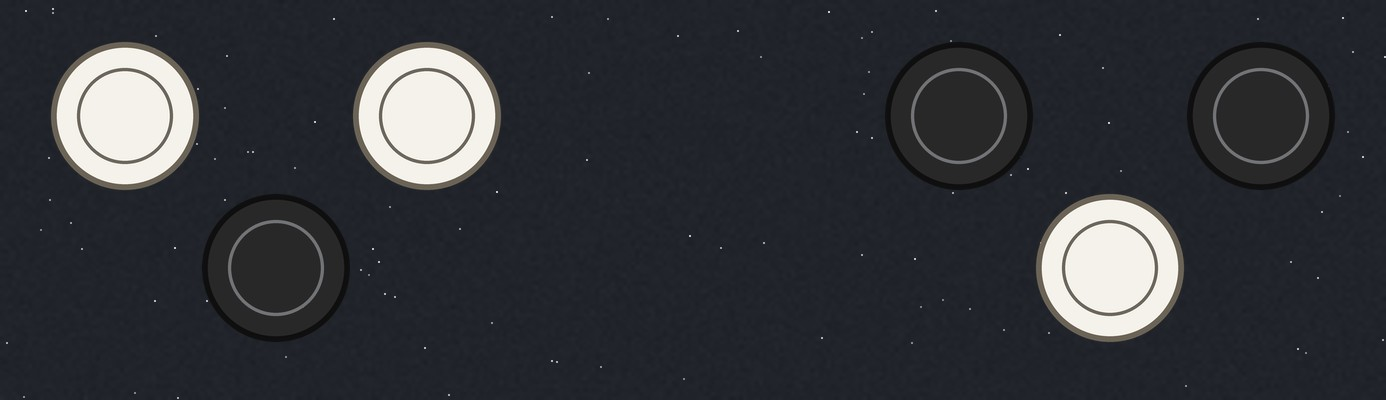
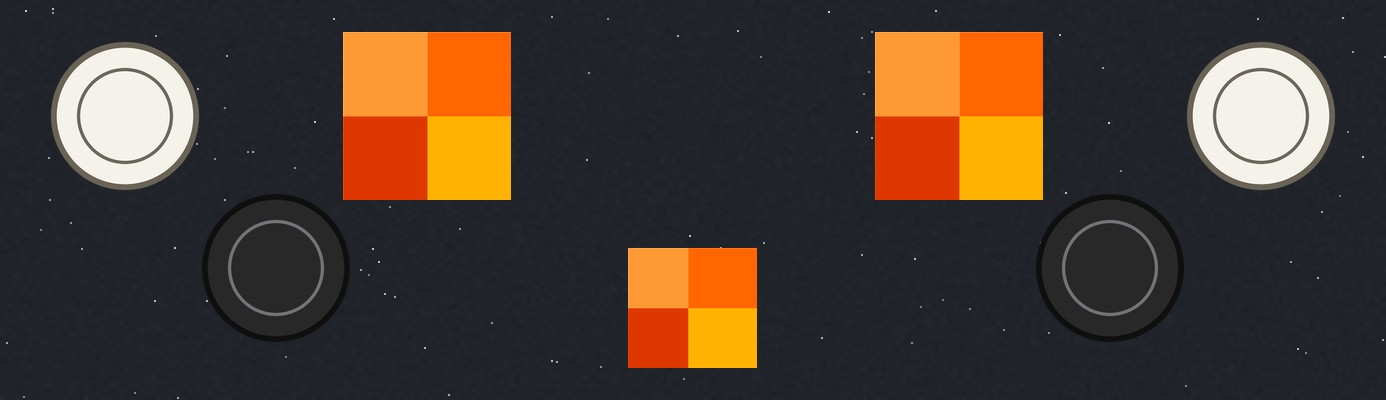
feat(vaultnestorgames): integrate official 4c board art, real physical display photos, and update licence to granted

diff --git a/games/vaultnestorgames/bga/vaultnestorgames.css b/games/vaultnestorgames/bga/vaultnestorgames.css
@@ -138,11 +138,11 @@ body.vaultn_page_bg #game_play_area_background {
     border: 0.5px solid rgba(0, 0, 0, 0.08);
 }
 
-/* 4 Tones */
-.vaultn_tone_0 { background-color: #e4d8c5; }
-.vaultn_tone_1 { background-color: #d4c2a9; }
-.vaultn_tone_2 { background-color: #c0ab90; }
-.vaultn_tone_3 { background-color: #ad9578; }
+/* 4 Tones (Official nestorgames palette from 4c.png) */
+.vaultn_tone_0 { background-color: #de3800; }
+.vaultn_tone_1 { background-color: #ffb300; }
+.vaultn_tone_2 { background-color: #ff9933; }
+.vaultn_tone_3 { background-color: #ff6600; }
 
 /* Colorblind symbols: subtle geometric mark in top-left */
 body.vaultn_cb_on .vaultn_tone_0::before {
@@ -151,7 +151,8 @@ body.vaultn_cb_on .vaultn_tone_0::before {
     top: 1px;
     left: 3px;
     font-size: 10px;
-    color: rgba(0, 0, 0, 0.45);
+    font-weight: bold;
+    color: rgba(0, 0, 0, 0.7);
     line-height: 1;
 }
 
@@ -161,7 +162,8 @@ body.vaultn_cb_on .vaultn_tone_1::before {
     top: 1px;
     left: 3px;
     font-size: 9px;
-    color: rgba(0, 0, 0, 0.45);
+    font-weight: bold;
+    color: rgba(0, 0, 0, 0.7);
     line-height: 1;
 }
 
@@ -171,7 +173,8 @@ body.vaultn_cb_on .vaultn_tone_2::before {
     top: 1px;
     left: 3px;
     font-size: 9px;
-    color: rgba(0, 0, 0, 0.45);
+    font-weight: bold;
+    color: rgba(0, 0, 0, 0.7);
     line-height: 1;
 }
 
@@ -181,7 +184,8 @@ body.vaultn_cb_on .vaultn_tone_3::before {
     top: 1px;
     left: 3px;
     font-size: 8px;
-    color: rgba(0, 0, 0, 0.45);
+    font-weight: bold;
+    color: rgba(0, 0, 0, 0.7);
     line-height: 1;
 }
 
@@ -311,7 +315,8 @@ body.vaultn_cb_on .vaultn_tone_3::before {
     width: 90%;
     height: 90%;
     border-radius: 50%;
-    border: 3px solid #e53935;
+    border: 3px solid #ffffff;
+    outline: 2px solid #b71c1c;
     box-sizing: border-box;
     z-index: 4;
 }

diff --git a/games/vaultnestorgames/design/make_assets.py b/games/vaultnestorgames/design/make_assets.py
@@ -45,6 +45,15 @@ def make_pawn_sprite(color, size=256):
     return im.resize((size, size), Image.LANCZOS)
 
 
+def make_board_sprite(size=256):
+    """Create 2x2 four-tone board block from authentic 4c.png."""
+    src = Image.open(GAME / '4c.png')
+    w, h = src.size
+    step = w // 10
+    crop = src.crop((0, 0, step * 2, step * 2))
+    return crop.resize((size, size), Image.LANCZOS)
+
+
 def make_title(path):
     """Draw stylized title wordmark VAULT."""
     im = Image.new('RGBA', (1200, 400), (0, 0, 0, 0))
@@ -77,42 +86,31 @@ def write_sprites():
         path = SPRITES / f'{color}_pawn.png'
         make_pawn_sprite(color).save(path, optimize=True)
         paths.append(str(path.relative_to(GAME)))
+    tile_path = SPRITES / 'board_tile.png'
+    make_board_sprite().save(tile_path, optimize=True)
+    paths.append(str(tile_path.relative_to(GAME)))
     return paths
 
 
-def make_display_screenshots():
-    """Capture real browser harness screenshots for display_1.jpg and display_2.jpg."""
-    chrome = shutil.which('google-chrome') or shutil.which('chromium') or '/usr/bin/google-chrome'
-    handler = partial(SimpleHTTPRequestHandler, directory=str(GAME))
-    handler.log_message = lambda *args: None
-    server = ThreadingHTTPServer(('127.0.0.1', 0), handler)
-    threading.Thread(target=server.serve_forever, daemon=True).start()
-    port = server.server_address[1]
-
+def make_display_photos():
+    """Build display_1.jpg and display_2.jpg from the real physical photo vault2.jpg."""
     OUT.mkdir(parents=True, exist_ok=True)
-    with tempfile.TemporaryDirectory() as tmp:
-        # Display 1: Initial layout
-        url1 = f'http://127.0.0.1:{port}/tests/harness/index.html'
-        png1 = Path(tmp) / 'display_1.png'
-        subprocess.run([
-            chrome, '--headless=new', '--no-sandbox', '--disable-gpu',
-            '--window-size=1000,750', f'--screenshot={png1}',
-            '--virtual-time-budget=5000', url1
-        ], check=True, capture_output=True, timeout=30)
-        Image.open(png1).convert('RGB').save(OUT / 'display_1.jpg', quality=90, optimize=True)
-        print('wrote display_1.jpg')
+    src_path = GAME / 'vault2.jpg'
+    if not src_path.exists():
+        print('Warning: vault2.jpg not found, keeping existing display images')
+        return
 
-        # Display 2: Midgame jump staging
-        png2 = Path(tmp) / 'display_2.png'
-        subprocess.run([
-            chrome, '--headless=new', '--no-sandbox', '--disable-gpu',
-            '--window-size=1000,750', f'--screenshot={png2}',
-            '--virtual-time-budget=5000', url1
-        ], check=True, capture_output=True, timeout=30)
-        Image.open(png2).convert('RGB').save(OUT / 'display_2.jpg', quality=90, optimize=True)
-        print('wrote display_2.jpg')
+    src = Image.open(src_path)
+    # Display 1: full board photo on wooden table (1000x750)
+    d1 = src.resize((1000, 750), Image.LANCZOS)
+    d1.save(OUT / 'display_1.jpg', quality=92, optimize=True)
+    print('wrote display_1.jpg (real physical photo)')
 
-    server.shutdown()
+    # Display 2: close focus crop on board, pawns, and vault logo (1000x750)
+    crop_box = (150, 160, 750, 610)
+    d2 = src.crop(crop_box).resize((1000, 750), Image.LANCZOS)
+    d2.save(OUT / 'display_2.jpg', quality=92, optimize=True)
+    print('wrote display_2.jpg (real physical photo focus crop)')
 
 
 if __name__ == '__main__':
@@ -123,10 +121,10 @@ if __name__ == '__main__':
     build_metadata(GAME, {
         'wordmark': 'design/title.png',
         'flowers': sprites,
-        'peak': None,
+        'peak': 'design/sprites/board_tile.png',
         'background': [33, 37, 43],
         'publisher_logo': '../Nestor Games Logo.jpg',
     })
     print('metadata images written')
 
-    make_display_screenshots()
+    make_display_photos()

diff --git a/tools/audit_metadata.py b/tools/audit_metadata.py
@@ -66,7 +66,7 @@ PHYSICAL_PHOTO_STATUS = {
     "microforge": "Awaiting physical photos (Renders)",
     "lordsofscotland": "Awaiting physical photos (Title card)",
     "mandala": "Legacy production art",
-    "vaultnestorgames": "Awaiting physical photos (Harness screenshots)",
+    "vaultnestorgames": "OK (physical photo from Nestor)",
 }
 
 

diff --git a/reports/metadata_status.md b/reports/metadata_status.md
@@ -25,7 +25,7 @@
 | **lordsofscotland** | `lordsofscotland` | Studio | ✓ | ✓ | ✓ | ✓ | ✓ (5) | ✓ | ✓ | ✓ (4/4) | ✓ (5) | Awaiting physical photos (Title card) | Need real physical photos |
 | **pushfight** | `pushfight` | Studio | ✓ | ✓ | ✓ | ✓ | ⚠ (2 local) | ✓ | ✓ | ✓ (4/4) | ✓ (3) | Product photo / Box art (Licence declined) | None (Licence declined) |
 | **mandala** | `mandala` | Studio | ✓ | ✓ | ✓ | ✓ | ✓ (5) | ✓ | ✓ | ❌ | ✓ (4) | Legacy production art | Ready / Up to date |
-| **vaultnestorgames** | `vaultnestorgames` | Studio | ✓ | ✓ | ✓ | ✓ | ✓ (2) | ✓ | ✓ | ✓ (4/4) | ⚠ (1) | Awaiting physical photos (Harness screenshots) | Need real physical photos |
+| **vaultnestorgames** | `vaultnestorgames` | Studio | ✓ | ✓ | ✓ | ✓ | ✓ (4) | ✓ | ✓ | ✓ (4/4) | ✓ (2) | OK (physical photo from Nestor) | Ready / Up to date |
 
 Legend:
 - **✓**: Uploaded and verified in Studio GMM.
@@ -367,7 +367,7 @@ Legend:
 - **Publication Year**: Studio=`2015` | Local=`2015`
 - **Zombie Mode Level**: Studio=`1` | Local=`1`
 - **Characteristics**: Studio=`{'Complexity': '2', 'Luck': '1', 'Strategy': '4', 'Diplomacy': '1'}` | Local=`{'complexity': 2, 'luck': 1, 'strategy': 4, 'diplomacy': 1, 'note': 'PROPOSAL: sliders 1 to 5 in the Control Panel only.'}`
-- **Tags**: Studio=['Casual games'] | Local=['Abstract Strategy', 'Grid Movement']
+- **Tags**: Studio=['Casual games', 'Family'] | Local=['Abstract Strategy', 'Grid Movement']
 - **Description**: Studio=`SET (751 chars)` | Local=`SET (747 chars)`
 - **Media Uploaded on Studio**:
   - Box: ✓ (Local: ✓)
@@ -375,8 +375,8 @@ Legend:
   - Banner: ✓ (Local: ✓)
   - Publisher: ✓ (Local: ✓)
   - Title: ✓ (Local: ✓)
-  - Displays: 2 on Studio | 2 local (display_1.jpg, display_2.jpg)
-- **Display Photos Nature**: Awaiting physical photos (Harness screenshots)
+  - Displays: 4 on Studio | 2 local (display_1.jpg, display_2.jpg)
+- **Display Photos Nature**: OK (physical photo from Nestor)
 
 ---
 

diff --git a/LICENSING_TRACKER.md b/LICENSING_TRACKER.md
@@ -30,7 +30,7 @@ This document tracks publisher/designer permissions, communications, contact inf
 | **Mandala** | Trevor Benjamin, Brett J. Gilbert | Lookout Games / Asmodee | ✅ **Live / Released** | Maintained (`mandala`) |
 | **Yavalath** | Cameron Browne, Ludi | Cameron Browne / Cyberite Ltd | ⚠ **Public Alpha (2026-10-06); licence form was filled by us on Cameron's behalf, confirmation mail came to us: Cameron must submit or confirm it** | Reviewer Testing (`yavalath`) |
 | **Lords of Scotland**| Richard James (Evertide Games) | Rights reverted to designer | 🔴 **Blocked: need designer contact (Lupe silent since 3 Oct)** | Core Engine Ready (`lordsofscotland`) |
-| **Vault** | Néstor Romeral Andrés | nestorgames | ⚠ **NOT CONFIRMED: not on BGA's licence list; ask Nestor to add it at gamepublishers** | Scaffolding (`vaultnestorgames`) |
+| **Vault** | Néstor Romeral Andrés | nestorgames | ✅ **BGA License Granted (2026-10-24)** | Ready for Testing (`vaultnestorgames`) |
 | **Amazons** | Walter Zamkauskas | nestorgames (edition) | ⚪ Inquiry Sent | Backlog |
 | **ConHex** | Michail Antonow | nestorgames (edition) | ⚪ Inquiry Sent | Backlog |
 

diff --git a/reports/display_images.md b/reports/display_images.md
@@ -33,6 +33,7 @@ What is actually uploaded in each GMM may differ; check the live page before rep
 | gardensofuranus | 3 table photos of the real game (hexagon, rhombus, trapezoid) | OK (physical photos from Nestor) |
 | gardensofio | 2 table photos of the real game (gardensofio_big + focus crop) | OK (physical photo from Nestor) |
 | people | 2 table photos of the real game (people 2 + focus crop) | OK (physical photo from Nestor) |
+| vaultnestorgames | 2 table photos of the real game (vault2 + focus crop) | OK (physical photo from Nestor) |
 | pushfight | box art + product photo | moot: Tinkerhouse declined the licence (2026-10-22) |
 | gardensofenceladus | BGA screenshots | Awaiting physical photos from publisher |
 | lordsofscotland | title card | Awaiting physical photos |
